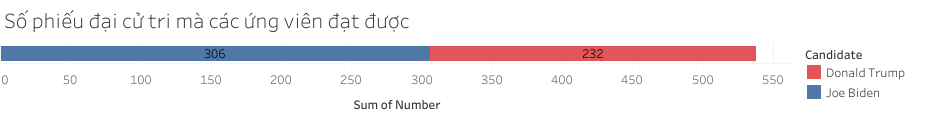
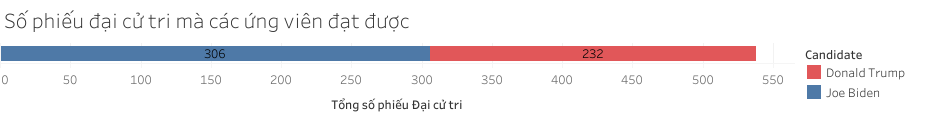
22h10 6/2/2023

Changed region(s): [[0.3379, 0.825, 0.4915, 0.925]]

diff --git a/slide.tex b/slide.tex
@@ -136,6 +136,15 @@
 
 \section{Tổng quan về dữ liệu cuộc bầu cử}
 
+\begin{frame}{Dữ liệu sử dụng}
+    \begin{itemize}
+        \item Dữ liệu bầu cử tại từng hạt: \url{https://www.kaggle.com/datasets/unanimad/us-election-2020}
+        \item Dữ liệu nhân khẩu học tại từng hạt (năm 2017): \url{https://www.kaggle.com/datasets/muonneutrino/us-census-demographic-data}
+        \item Dữ liệu GDP tại từng hạt (từ năm 2001 đến năm 2018): \url{https://www.kaggle.com/datasets/anasmahmood000/highest-gdp-counties-in-usa}
+    \end{itemize}
+\end{frame}
+
+
 \begin{frame}{Dữ liệu bầu cử tại từng hạt}
 	\begin{figure}[h!]
         \centering
@@ -169,7 +178,23 @@
     \end{figure}
 \end{frame}
 
+\begin{frame}{Công cụ sử dụng}
+    \begin{itemize}
+        \item Trực quan hóa: Tableau trực quan hóa dữ liệu địa lý
+        \item Phân tích độ quan trọng các đặc trưng: Mô hình hồi quy tuyến tính, XGBoost, Logistic Regression, Decision Tree, Random Forest,...
+    \end{itemize}
+\end{frame}
+
 \section{Trực quan hóa dữ liệu kết quả cuộc bầu cử Tổng thống năm 2020}
+
+\begin{frame}{Số lá phiếu Đại cử tri theo từng bang}
+	\begin{figure}[h!]
+        \centering
+        \includegraphics[width=\textwidth]{figures/State_Electoral_Votes_Bar_Chart.png}
+        \caption{Tổng số phiếu Đại cử tri theo từng bang}
+    \end{figure}
+\end{frame}
+
 
 \begin{frame}{Kết quả chung cuộc}
 	\begin{figure}[h!]
@@ -203,10 +228,18 @@
     \end{figure}
 \end{frame}
 
+\begin{frame}{Kết quả từng bang và tỷ lệ phiếu phổ thông từng ứng cử viên đạt được}
+	\begin{figure}[h!]
+        \centering
+        \includegraphics[width=\textwidth]{figures/State_Win_Candidate_and_Pie_chart.png}
+        \caption{Kết quả từng bang và tỷ lệ phiếu phổ thông từng ứng cử viên đạt được}
+    \end{figure}
+\end{frame}
+
 \begin{frame}{Tỷ lệ phiếu phổ thông của từng ứng viên}
 	\begin{figure}[h!]
         \centering
-        \includegraphics[width=0.5\textwidth]{Percentage_Total_Candidates_Bubble_Chart.png}
+        \includegraphics[width=0.6\textwidth]{Percentage_Total_Candidates_Tree_Chart.png}
         \caption{Tỷ lệ phiếu phổ thông được bầu của từng ứng cử viên}
     \end{figure}
 \end{frame}
@@ -224,6 +257,14 @@
         \centering
         \includegraphics[width=\textwidth]{Percentage_Popular_Votes_Candidates_by_States.png}
         \caption{Tỷ lệ số phiếu phổ thông của từng ứng viên tại từng bang}
+    \end{figure}
+\end{frame}
+
+\begin{frame}{Tỷ lệ số phiếu phổ thông của từng ứng viên tại từng bang}
+	\begin{figure}[h!]
+        \centering
+        \includegraphics[width=\textwidth]{figures/12_Electoral_Vote_State_Candidate_Win.png}
+        \caption{Tỷ lệ số phiếu phổ thông của từng ứng viên tại từng 12 bang có số phiếu Đại cử tri lớn nhất}
     \end{figure}
 \end{frame}
 
@@ -332,7 +373,7 @@
 \begin{frame}{Biểu đồ cột thể hiện chênh lệch tỷ lệ phiếu bầu giữa các ứng viên trên từng tiểu bang}
 	\begin{figure}[h!]
 		\centering
-		\includegraphics[height=0.7\textheight]{figures/State_Difference_Percentage_Total_Vote_Two_Candidate_Bar_Chart.png}
+		\includegraphics[width=0.9\textwidth]{figures/State_Difference_Percentage_Total_Vote_Two_Candidate_Bar_Chart.png}
 		\caption{Biểu đồ cột thể hiện chênh lệch tỷ lệ phiếu bầu giữa các ứng viên trên từng tiểu bang}
 	\end{figure}
 \end{frame}
